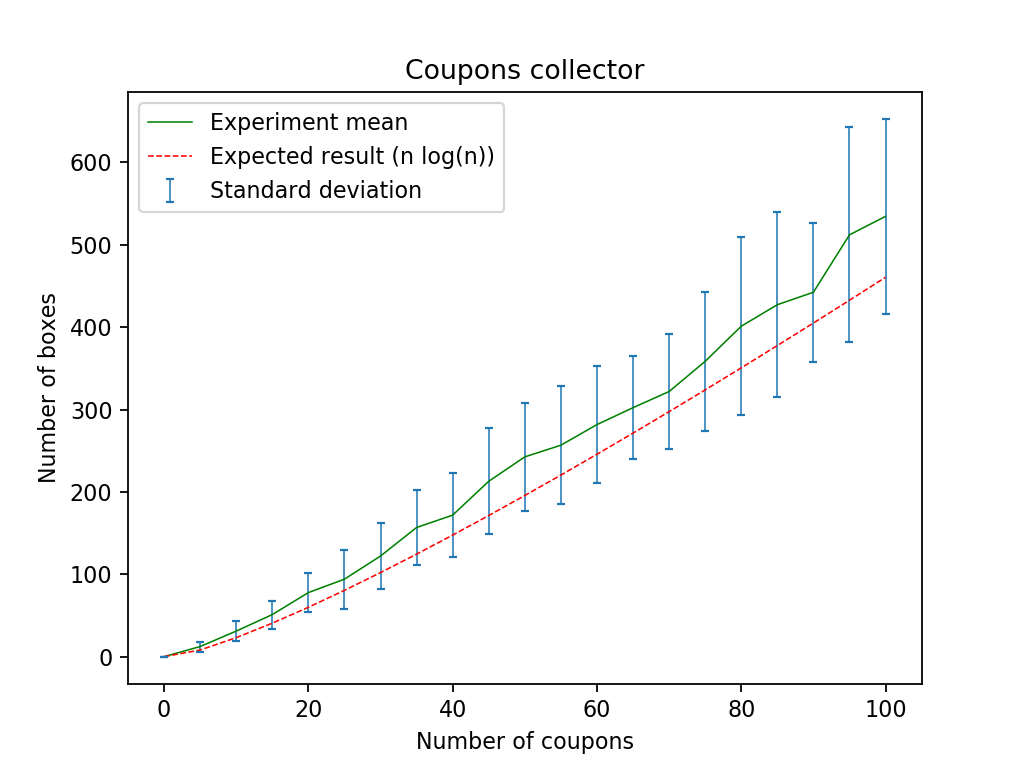
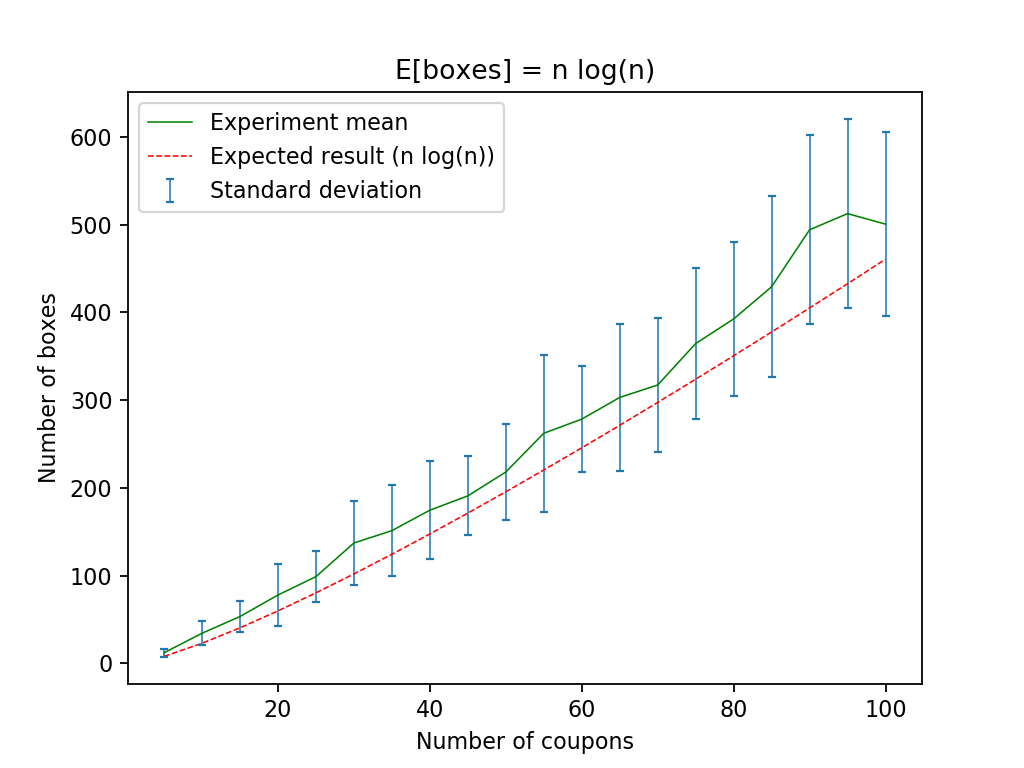
Adding probabilities plot

diff --git a/Coupon Collector Simulation/bash_coupon_collector.py b/Coupon Collector Simulation/bash_coupon_collector.py
@@ -1,5 +1,5 @@
 import numpy as np
-from utils import plot_coupon_collector_results
+from utils import plot_coupon_collector_results, plot_coupon_collector_probability
 import subprocess
 import re
 import math
@@ -31,11 +31,27 @@ print('Python script:[Coupons:{}][Experiments:{}][Step:{}][Time:{:.5f}]'.format(
 values = result.stdout.decode('utf-8').split(':')
 
 coupons_history = np.fromstring(values[0], dtype=int, sep=' ')
-boxes_history = np.asarray(np.matrix(';'.join((values[1].split(';')[:-1]))))
+linear_factors = np.fromstring(values[1], dtype=int, sep=' ')
+boxes_history = np.asarray(np.matrix(';'.join((values[2].split(';')[:-1]))))
+probabilities = np.fromstring(values[3], dtype=float, sep=' ') / boxes_history.shape[0]
+
+
+probability_history = {}
+for idx, coupons in enumerate(coupons_history):
+  probability_history[coupons] = probabilities[idx * linear_factors.shape[0]: (idx + 1) * linear_factors.shape[0]]
+
+
 
 mean_history = np.mean(boxes_history, axis=0)
 error_history = np.squeeze(np.std(boxes_history, axis=0))
 expected_history = [coupons * math.log(coupons + 1e-15) for coupons in coupons_history]
+
+figure_prob = plot_coupon_collector_probability(
+    factors=linear_factors,
+    probabilities=probability_history
+)
+
+figure_prob.savefig('bash_probability_results.png')
 
 figure = plot_coupon_collector_results(
     coupons=coupons_history, 

diff --git a/Coupon Collector Simulation/README.md b/Coupon Collector Simulation/README.md
@@ -35,16 +35,21 @@ For this experiment, the next parameters were supplied:
 
 ### Python script results
 
-**Running time**: *1.60189* seconds.
+**Running time**: *5.27455* seconds.
 
 ![image info](./python_results.png)
+
+![image info](./python_probability_results.png)
 
 
 ### Bash script results
 
-**Running time**: *100.72148* seconds.
+**Running time**: *84.82690* seconds.
 
 ![image info](./bash_results.png)
+
+
+![image info](./bash_probability_results.png)
 
 
 
